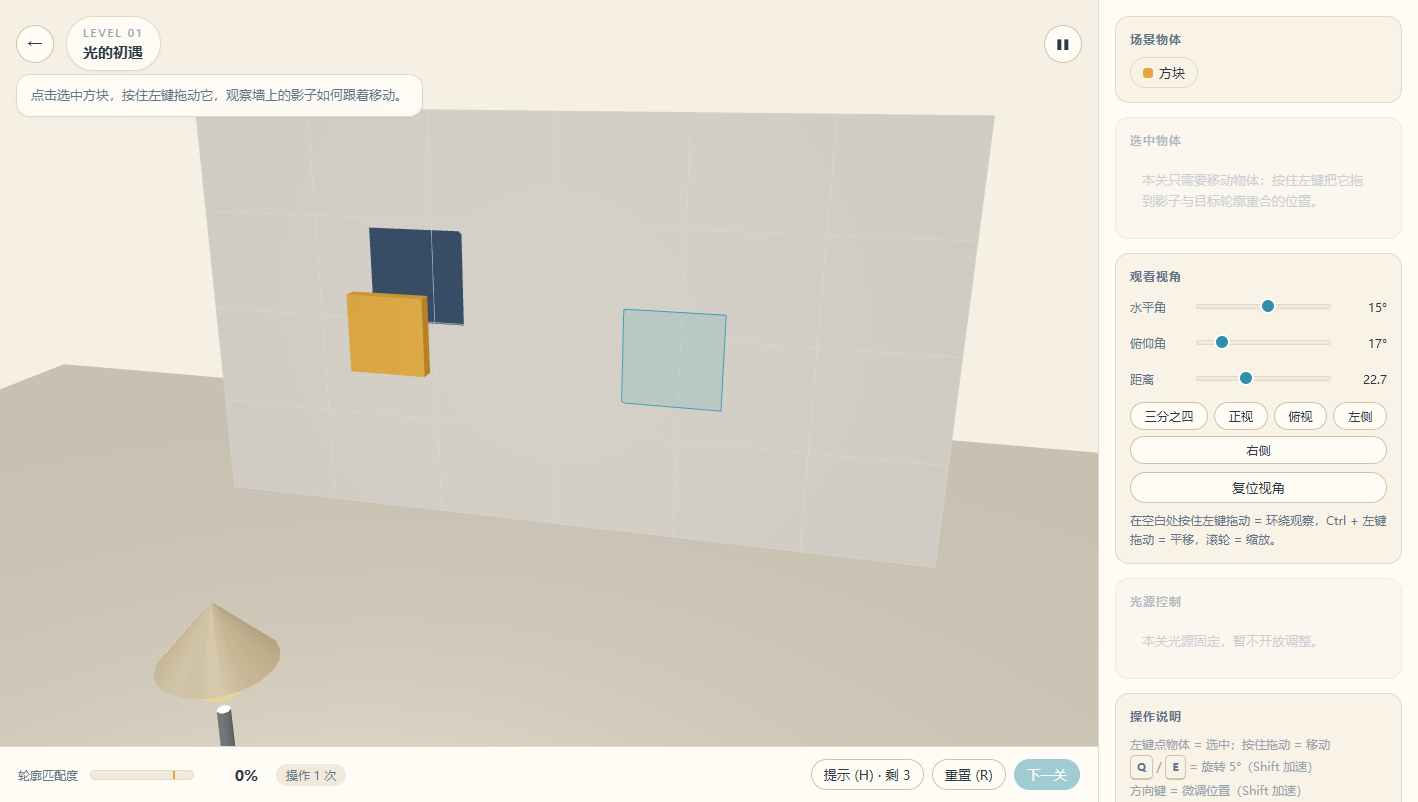
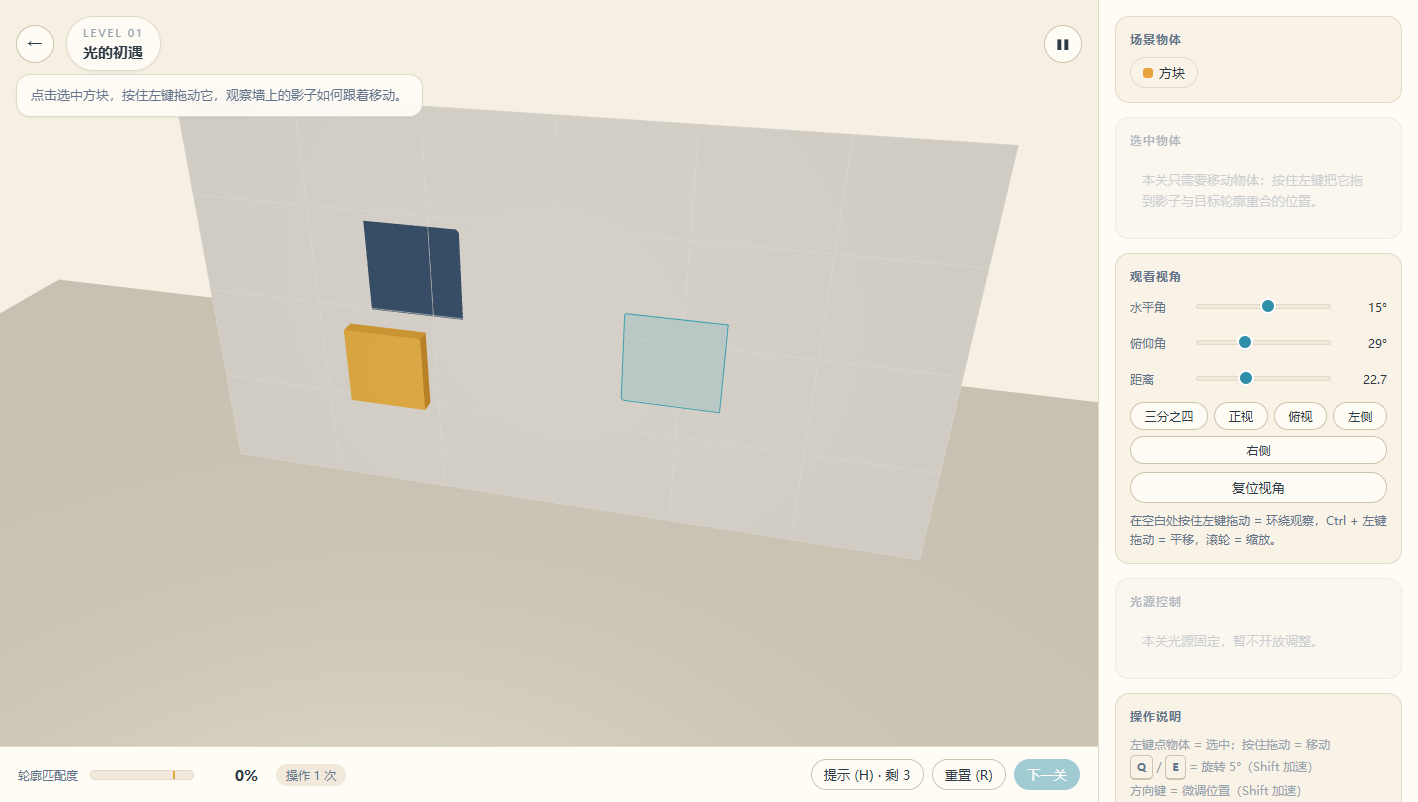
反转俯仰角拖动方向：向下拖动抬高相机
- SceneManager 环绕公式 elevation 由 -dy 改为 +dy，
  与多数三维软件一致（向下拖 = 视角更俯视）
- e2e 增加方向性断言（向下拖动必须抬高俯仰角），55/55 通过

diff --git a/src/scene/SceneManager.ts b/src/scene/SceneManager.ts
@@ -250,9 +250,10 @@ export class SceneManager {
       lastX = e.clientX;
       lastY = e.clientY;
       if (mode === 'orbit') {
+        // 俯仰方向：向下拖动 = 抬高相机（视角更俯视），与多数三维软件的手感一致
         this.setView({
           azimuth: this.view.azimuth - dx * 0.22,
-          elevation: this.view.elevation - dy * 0.22,
+          elevation: this.view.elevation + dy * 0.22,
         });
       } else {
         this.panBy(dx, dy);
